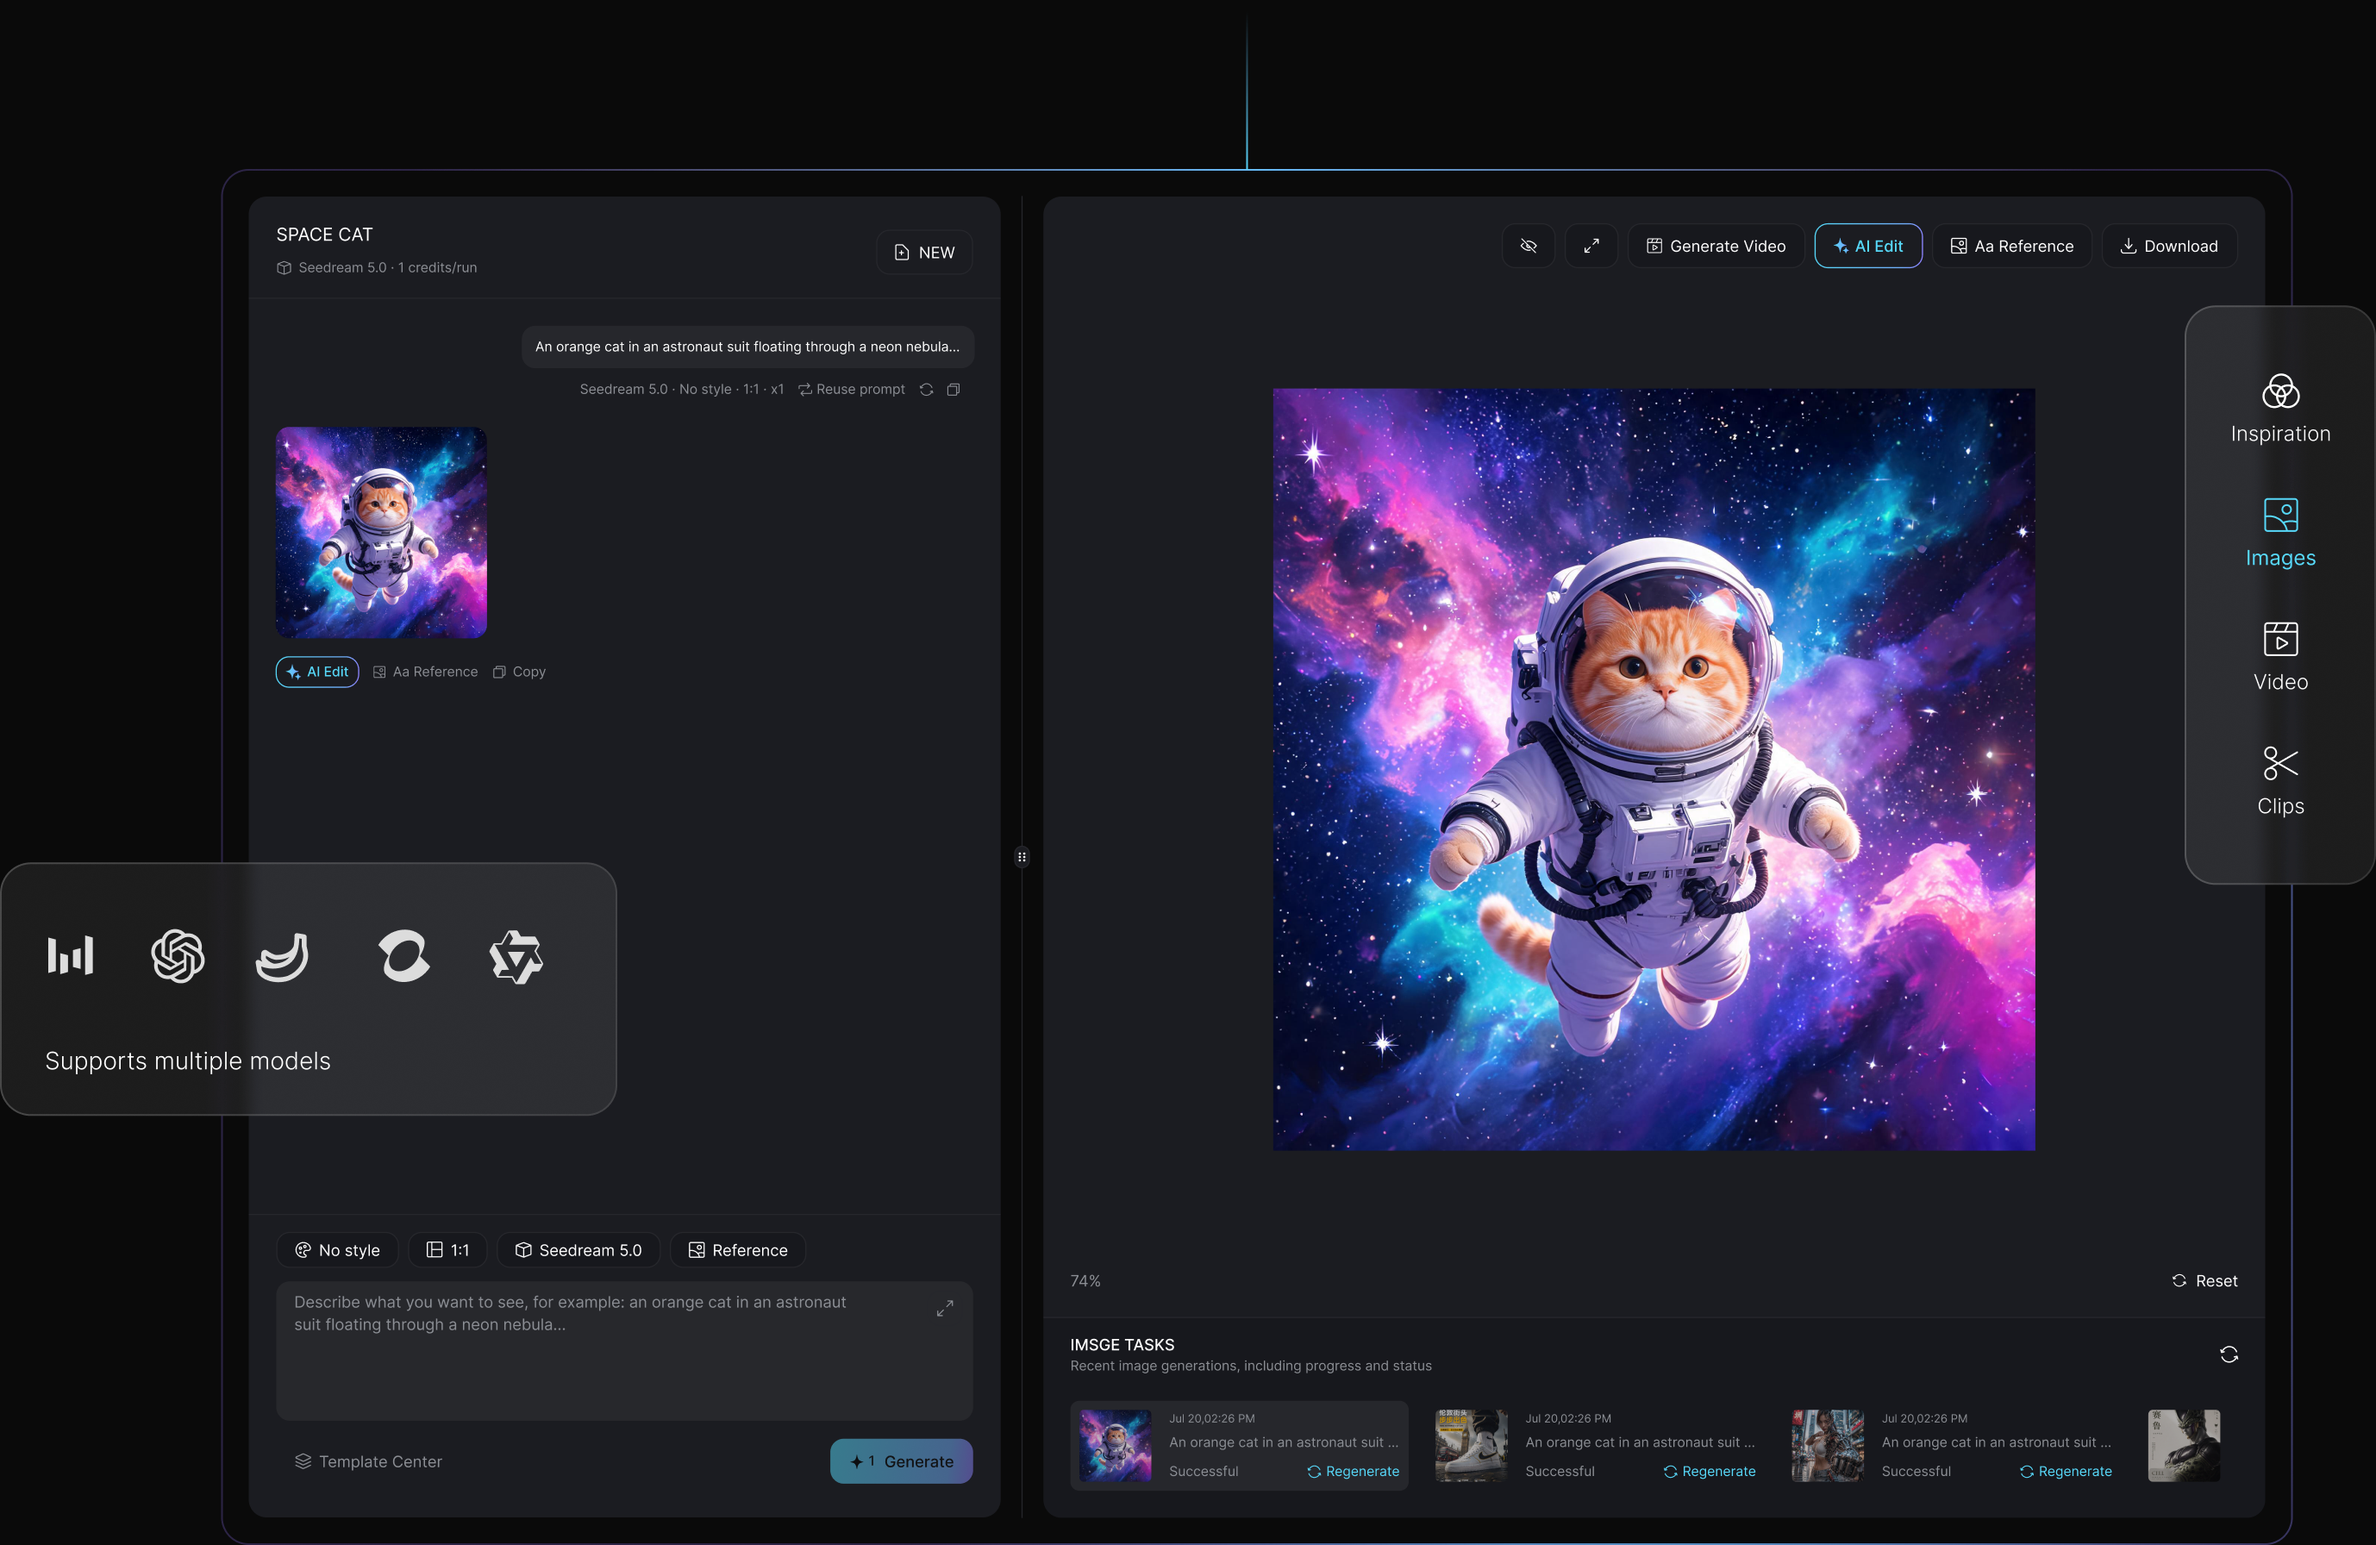
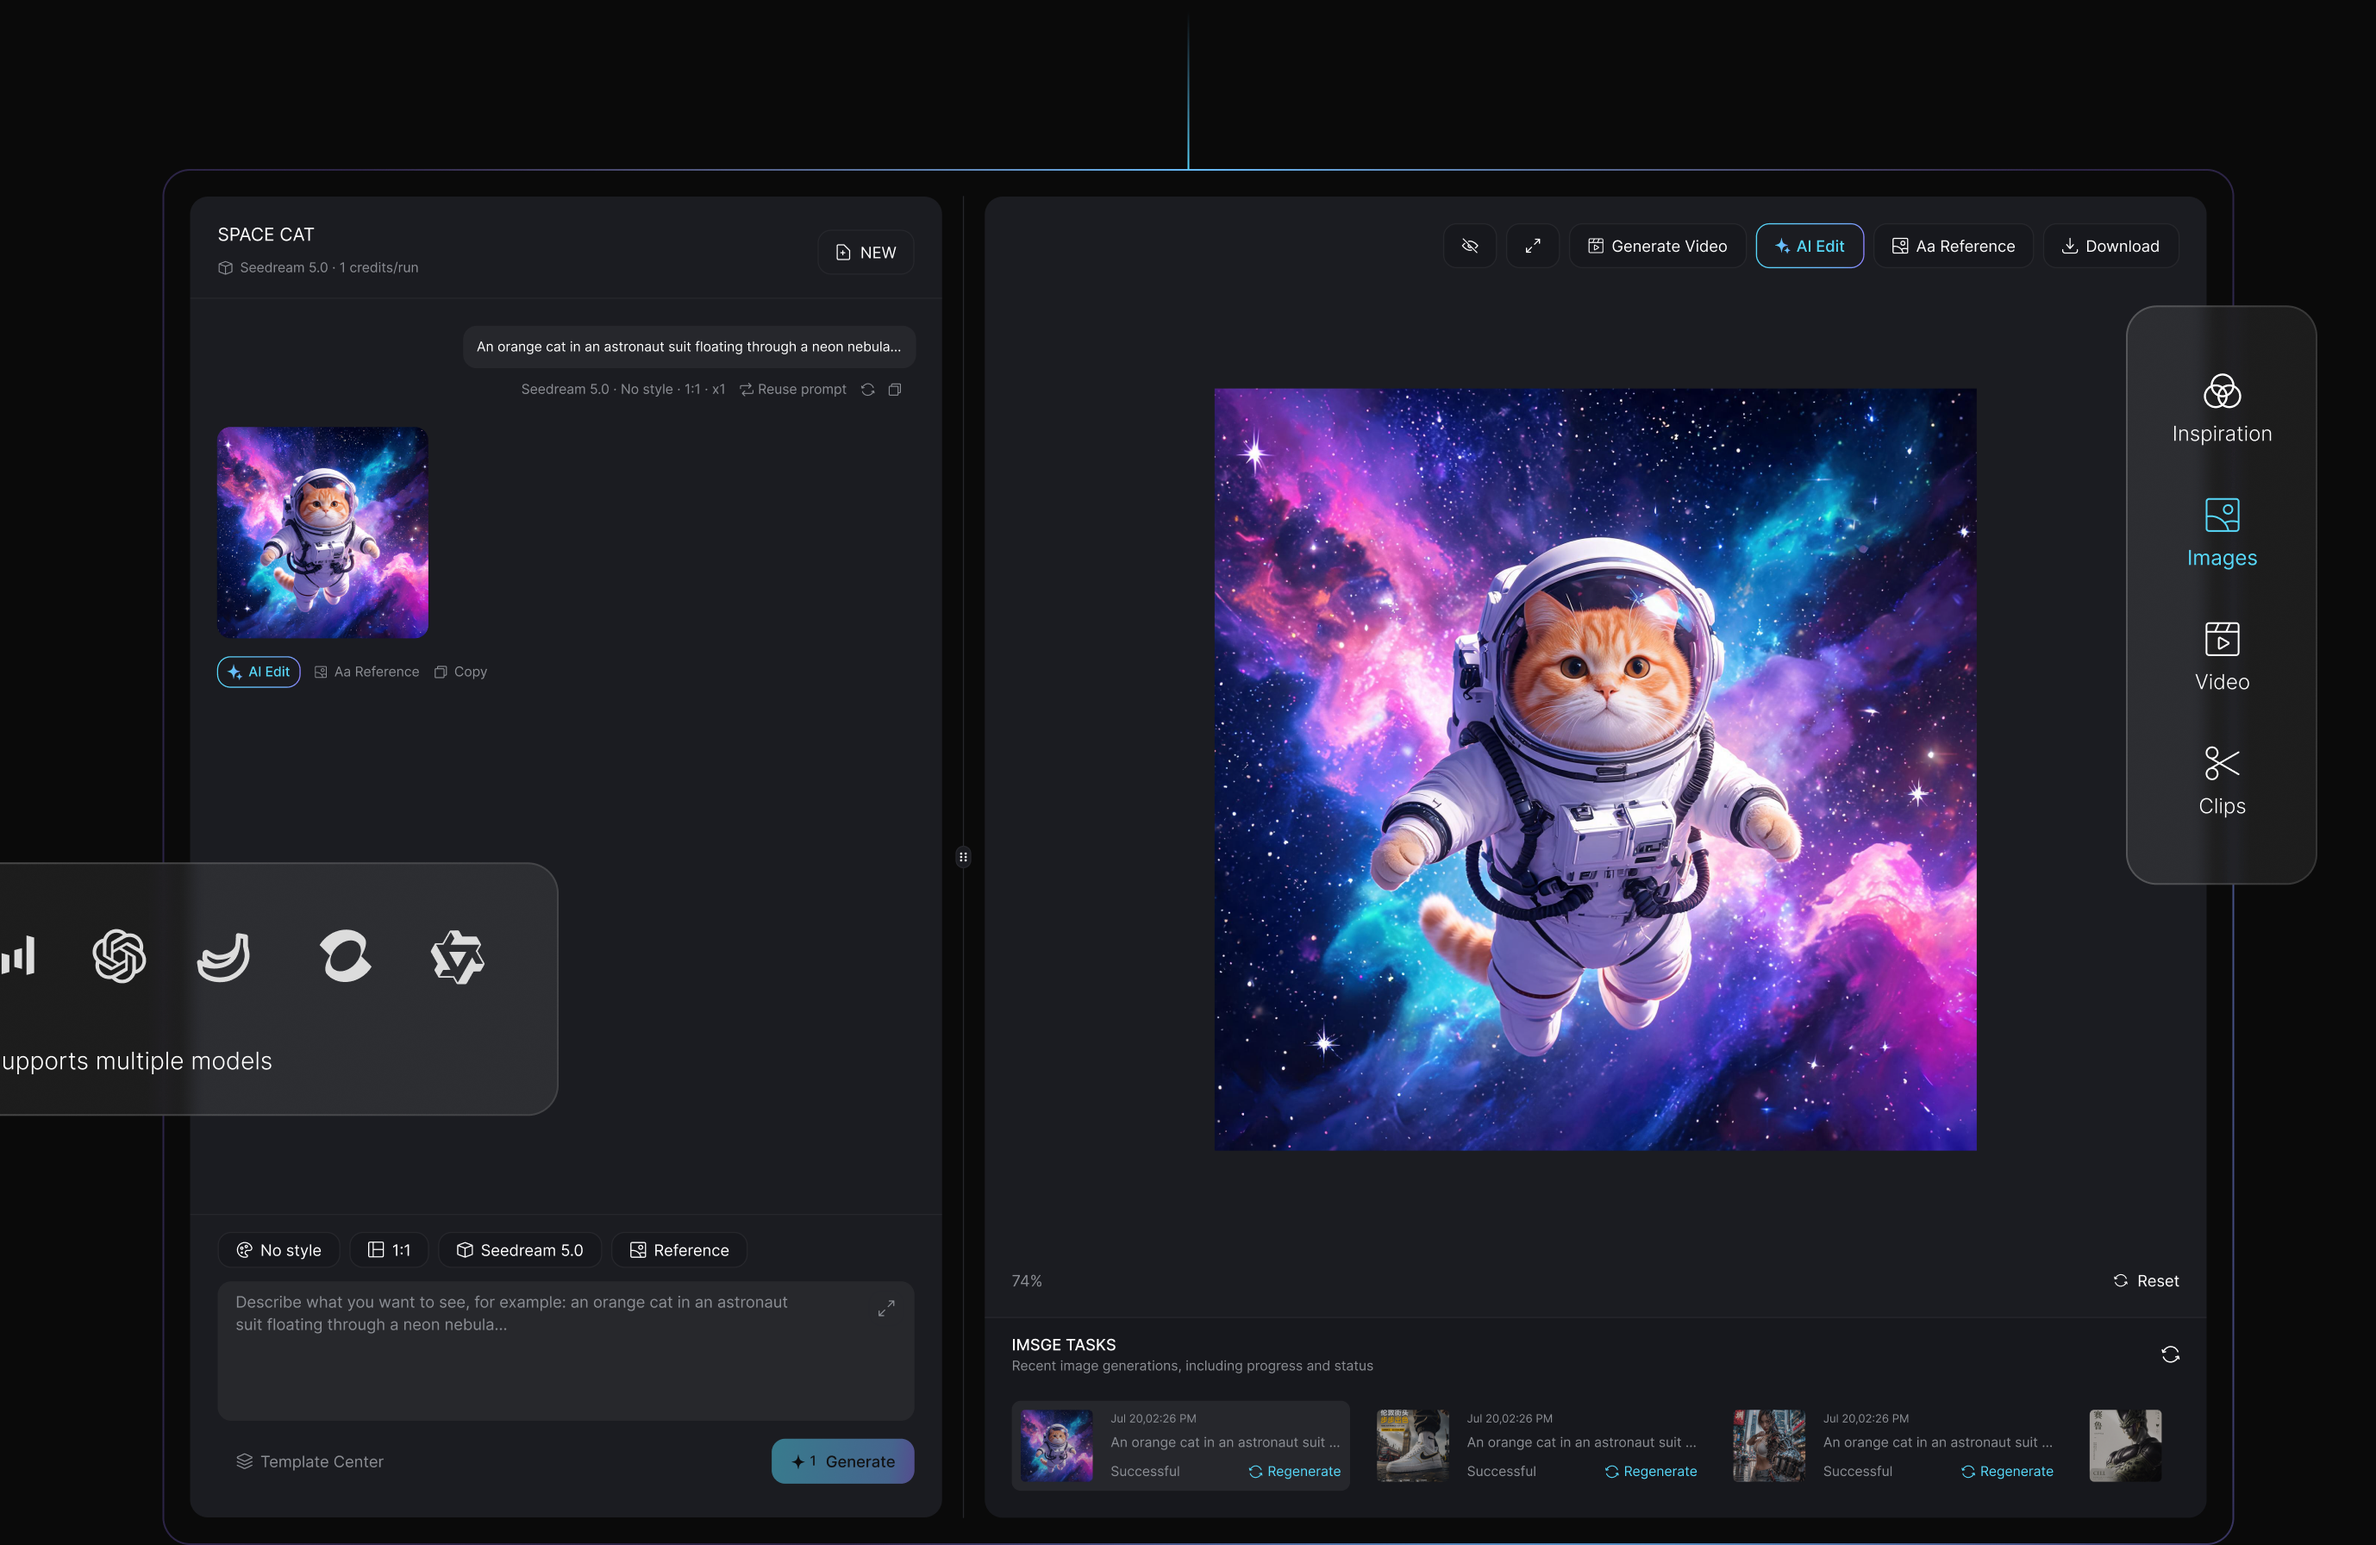
fix(web): center MagiCore product pill with Figma showcase stem
Recenter product-showcase stem and tighten pill spacing; remap hero-bg-top pedestal gray to page black.

diff --git a/apps/web/src/components/MagiCoreHomePage.tsx b/apps/web/src/components/MagiCoreHomePage.tsx
@@ -349,22 +349,23 @@ export function MagiCoreHomePage() {
           <p className="mx-auto mt-5 max-w-[940px] text-[14px] leading-[30px] tracking-[0.32px] text-[#8b8e94] sm:text-[16px]">
             {t("home.mc.product.description")}
           </p>
+          {/* MagiCoreAI pill + product showcase — both page-centered (Figma 960/1920) */}
           <div className="relative mx-auto mt-10 w-full">
             <img
-              src={`${ASSET}/product-pill.svg?v=1`}
+              src={`${ASSET}/product-pill.svg?v=3`}
               alt=""
               width={282}
               height={79}
-              className="mx-auto mb-1 h-auto w-[min(282px,42vw)] select-none"
+              className="relative z-10 mx-auto block h-auto w-[min(282px,42vw)] select-none"
               draggable={false}
               loading="lazy"
             />
             <img
-              src={`${ASSET}/product-showcase.png?v=2`}
+              src={`${ASSET}/product-showcase.png?v=4`}
               alt={t("home.mc.product.imageAlt")}
               width={2756}
               height={1792}
-              className="mx-auto h-auto w-full select-none"
+              className="mx-auto -mt-[clamp(0.35rem,1.2vw,0.75rem)] h-auto w-full select-none"
               draggable={false}
               loading="lazy"
               decoding="async"

diff --git a/apps/web/src/components/MagiCoreBgTop.tsx b/apps/web/src/components/MagiCoreBgTop.tsx
@@ -4,7 +4,7 @@
  * Parent must establish size (homepage uses aspect-ratio 1920/1080).
  * @see https://www.figma.com/design/A8pVy0Wd7vLufWQdKqu9wB/MegiCoreAI?node-id=238-6440
  */
-const BG_TOP_SRC = "/brand/magicore/home/hero-bg-top.png?v=4";
+const BG_TOP_SRC = "/brand/magicore/home/hero-bg-top.png?v=5";
 
 export function MagiCoreBgTop() {
   return (
